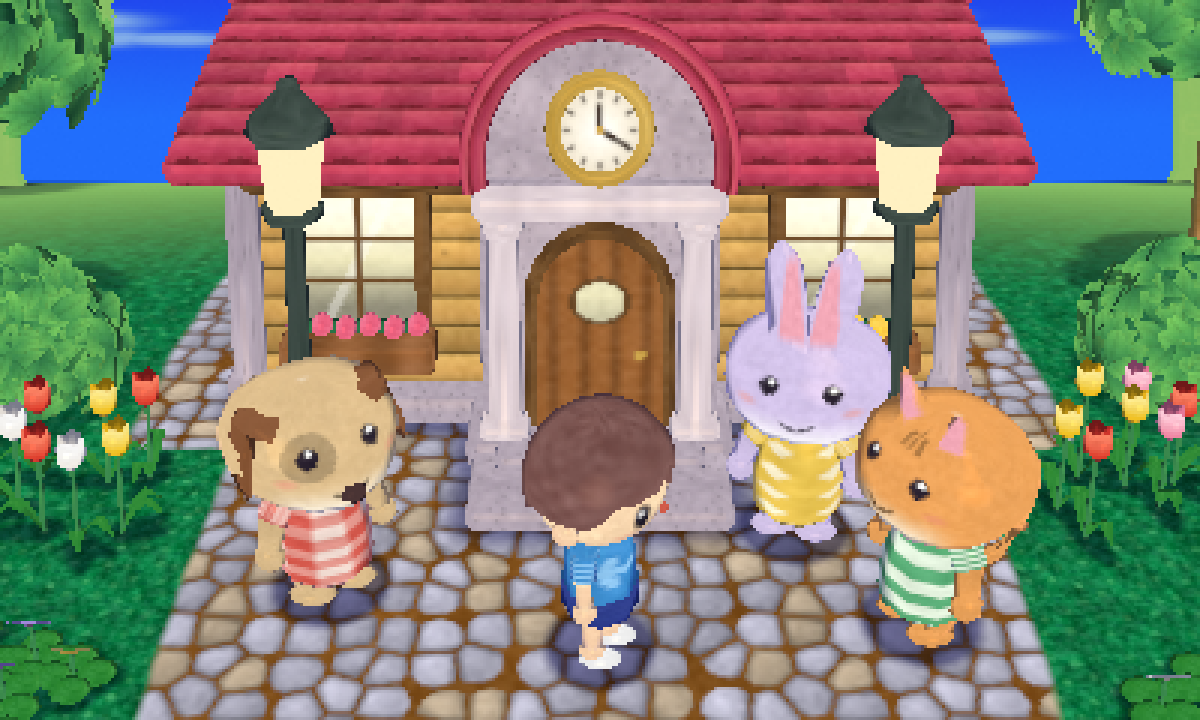
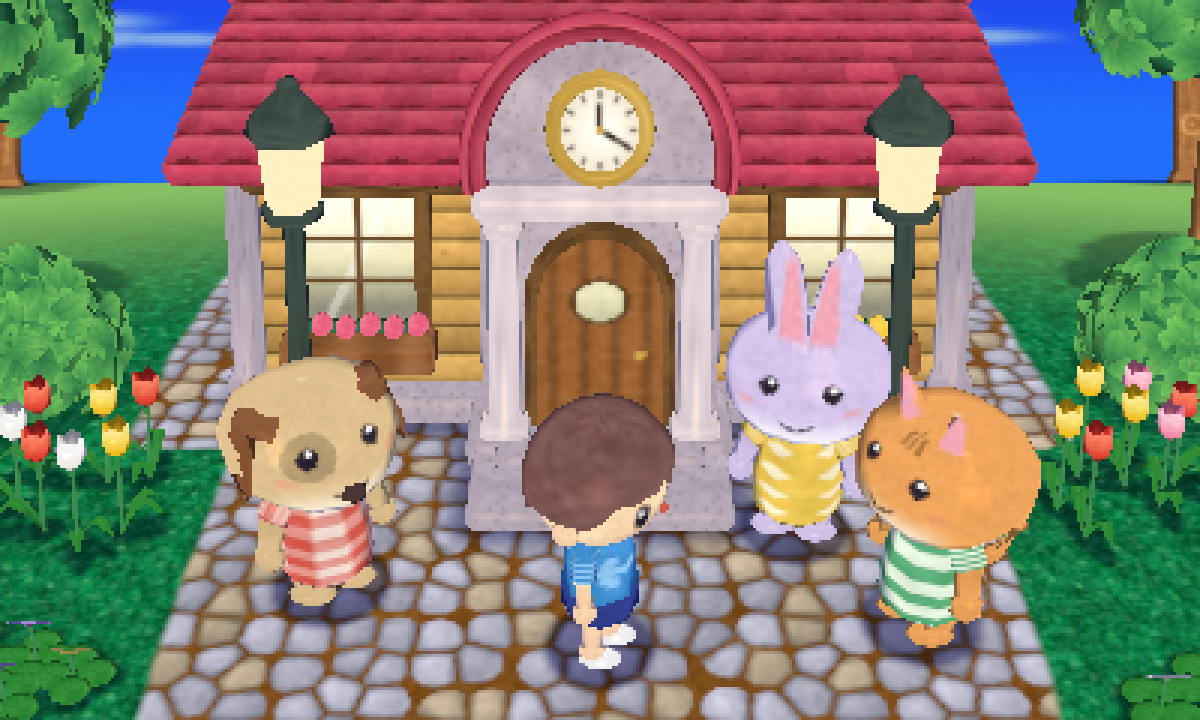
Haze review: ground and water layer only, anchored to ground places
Retail frames show objects at the hazed horizon keep their colour (trunk, cedar
and cherry crowns, weeds) while the ground brightens; the earlier weed reading
was a mask artefact and is retracted. The town hall scene drops object haze and
maps the walking camera's haze distances through the ground points they hit.
Blueprint: contradictions in sections 2, 12.1, 12.2, 13, 16.10, 16.14 and
16.16 corrected, new section 16.17 with the evidence table.

Claude-Session: https://claude.ai/code/session_017uV2ZEHp81Umsc7vn6nowa

diff --git a/style_test_town/town_hall_test.py b/style_test_town/town_hall_test.py
@@ -80,11 +80,31 @@ def solve_camera_lean():
     return h, d
 
 
+WALK_H, WALK_D = R.CAM_H, R.CAM_D                      # the walking camera the haze was set on (river scene)
+WALK_HAZE = (R.HAZE_NEAR, R.HAZE_FAR)
 R.CAM_H, R.CAM_D = solve_camera_lean()
-R._NEAR = math.hypot(R.CAM_D, R.CAM_H)
-R._FAR = R.tangent_distance(R.LOG_R, R.CAM_H, R.CAM_D)
-R.HAZE_NEAR = R._NEAR + 0.4 * (R._FAR - R._NEAR)
-R.HAZE_FAR = R._FAR
+
+
+def ground_point_at(view_dist, h, d):
+    """The bent ground point (centre column) at a given view distance from a camera at height h, d behind the player."""
+    for th in np.linspace(1e-5, math.pi / 2, 20000):
+        y, z = R.LOG_R * math.sin(th), R.LOG_R * math.cos(th) - R.LOG_R
+        if math.hypot(y + d, h - z) >= view_dist:
+            return y, z
+    return y, z
+
+
+def rebase_distance(view_dist):
+    """Haze belongs to places on the ground, not to a framing: map a view distance of the walking camera to the view
+    distance of the same ground point from this scene's camera."""
+    y, z = ground_point_at(view_dist, WALK_H, WALK_D)
+    return math.hypot(y + R.CAM_D, R.CAM_H - z)
+
+
+# Haze (16.17): a GROUND layer only (retail objects at the horizon keep their colour), anchored to the same ground
+# places as the river scene's user chosen setting (start 0.4 of the way from the feet to the walking view's ground
+# edge, mix up to 0.9).
+R.HAZE_NEAR, R.HAZE_FAR = rebase_distance(WALK_HAZE[0]), rebase_distance(WALK_HAZE[1])
 
 # --------------------------------------------------------------------------
 # Palette (M = measured, E = design choice)
@@ -982,44 +1002,11 @@ def build_flower_bed(col, M, x, y, kind, colours, rng, n=7, radius=0.32):
 
 
 # --------------------------------------------------------------------------
-# Haze on every object (user direction, 16.16): the same camera distance ramp as the ground. Retail evidence:
-# low weeds near the horizon brighten like the ground (S#13257: #44964D near, #9DCE6D far band); a tree at the edge
-# of a plaza shows none at its short distance (S#3152). The cobbles haze toward the measured far cobble #C6C3D6
-# instead of the grass lime.
+# Haze is a ground layer (16.17). Retail evidence: at the horizon of S#1246 the ground is hazed (#A0CF68, S 0.50, against
+# #026738, S 0.98 near) while a trunk (#985A33), a cedar crown (#093219) and a cherry crown (#F585CC, near #F492CD)
+# keep their colour; far weeds in S#13257 stay saturated. Plaza cobbles haze toward a lighter lavender grey (S#3152:
+# #ADB2C6 near, #C6C3D6 far), not toward the grass lime.
 # --------------------------------------------------------------------------
-def haze_node(nt, color_socket, haze_hex):
-    cd = nt.nodes.new("ShaderNodeCameraData")
-    hz = nt.nodes.new("ShaderNodeMapRange")
-    hz.interpolation_type = "SMOOTHSTEP"
-    link(nt, cd.outputs["View Distance"], hz.inputs["Value"])
-    hz.inputs["From Min"].default_value, hz.inputs["From Max"].default_value = R.HAZE_NEAR, R.HAZE_FAR
-    hz.inputs["To Min"].default_value, hz.inputs["To Max"].default_value = 0.0, R.HAZE_MAX
-    mx = nt.nodes.new("ShaderNodeMix")
-    mx.data_type = "RGBA"
-    link(nt, hz.outputs["Result"], mx.inputs[0])
-    link(nt, color_socket, mx.inputs[6])
-    mx.inputs[7].default_value = (*lin(R.gcol(haze_hex)), 1)
-    return mx.outputs[2]
-
-
-def apply_object_haze(M):
-    skip = {M[k].name for k in ("blob", "contact", "canopy", "cloud", "terrain", "water", "foam", "fish", "line")
-            if k in M}
-    n = 0
-    for m in bpy.data.materials:
-        if not m.node_tree or m.name in skip:
-            continue
-        nt = m.node_tree
-        for em in [x for x in nt.nodes if x.bl_idname == "ShaderNodeEmission"]:
-            if not em.inputs["Color"].is_linked:
-                continue
-            src = em.inputs["Color"].links[0].from_socket
-            nt.links.remove(em.inputs["Color"].links[0])
-            link(nt, haze_node(nt, src, R.PAL["haze"]), em.inputs["Color"])
-            n += 1
-    return n
-
-
 def plaza_haze_colour(M):
     """Terrain: the haze colour follows the plaza weight (grass lime #8EC668, cobble #C6C3D6)."""
     nt = M["terrain"].node_tree
@@ -1129,7 +1116,6 @@ def build(native=False):
     heads = {name: build_villager(world, M, name, species, pos, facing)
              for name, species, pos, facing, *_ in VILLAGERS}
     chars = {n for n in set(bpy.data.objects.keys()) - before if "Shadow" not in n}
-    hazed = apply_object_haze(M)
     for ob in bpy.context.scene.objects:                         # buildings and props lean back; characters upright
         if ob.type != "MESH" or ob.name in chars or ob.name == "Terrain":
             continue
@@ -1145,7 +1131,7 @@ def build(native=False):
     R.finalize_render(native, world, M, cam)
     tris_v = sum(sum(len(p.vertices) - 2 for p in bpy.data.objects[n].data.polygons) for n in chars
                  if n.startswith("Cat"))
-    return {"cam": cam, "heads": heads, "gable_top": gable_top * HALL_SCALE, "hazed": hazed, "tris_cat": tris_v}
+    return {"cam": cam, "heads": heads, "gable_top": gable_top * HALL_SCALE, "tris_cat": tris_v}
 
 
 def check(info):
@@ -1158,8 +1144,8 @@ def check(info):
         return 1 - v.y, v.x
 
     print(f"camera: height {R.CAM_H:.2f} P, distance {R.CAM_D:.2f} P, bend R {R.LOG_R:.2f} P, building lean {LEAN_DEG} deg, "
-          f"open ground horizon {R.horizon_row_for(R.LOG_R, R.CAM_H, R.CAM_D):.3f}; haze {R.HAZE_NEAR:.2f} to "
-          f"{R.HAZE_FAR:.2f} P on {info['hazed']} object materials")
+          f"open ground horizon {R.horizon_row_for(R.LOG_R, R.CAM_H, R.CAM_D):.3f}; ground haze {R.HAZE_NEAR:.2f} to "
+          f"{R.HAZE_FAR:.2f} P view distance (walking camera {WALK_HAZE[0]:.2f} to {WALK_HAZE[1]:.2f} P, same ground places)")
     for k, p in {"player feet": (0, 0, 0), "player hair top": (0, 0, 1.0)}.items():
         r, c = row_col(p)
         print(f"  {k:18s} row {r:.3f} column {c:.3f}")
@@ -1211,6 +1197,33 @@ def qa(png):
               f"{np.percentile(shaded, 10):.2f} over {shaded.size} shaded pixels (section 3: 0.41 to 0.50)")
 
 
+def haze_qa(png):
+    """Render again with the ground haze off and divide: where the haze acts, how strongly, and that nothing else moves."""
+    sc = bpy.context.scene
+    nt = bpy.data.materials[bpy.data.objects["Terrain"].data.materials[0].name].node_tree
+    hz = next(x for x in nt.nodes if x.bl_idname == "ShaderNodeMapRange"
+              and abs(x.inputs["From Min"].default_value - R.HAZE_NEAR) < 1e-4)
+    keep = hz.inputs["To Max"].default_value
+    hz.inputs["To Max"].default_value = 0.0
+    tmp = os.path.join(os.path.dirname(png), "_qa_nohaze.png")
+    old = sc.render.filepath
+    sc.render.filepath = tmp
+    bpy.ops.render.render(write_still=True)
+    sc.render.filepath = old
+    hz.inputs["To Max"].default_value = keep
+    a = np.array(bpy.data.images.load(png).pixels[:]).reshape(sc.render.resolution_y, sc.render.resolution_x, 4)[::-1, :, :3]
+    b = np.array(bpy.data.images.load(tmp).pixels[:]).reshape(a.shape[0], a.shape[1], 4)[::-1, :, :3]
+    os.remove(tmp)
+    L = lambda c: 0.2126 * c[..., 0] + 0.7152 * c[..., 1] + 0.0722 * c[..., 2]
+    r = L(a) / np.maximum(L(b), 1e-4)
+    moved = np.abs(a - b).max(-1) > 1.5 / 255
+    green = (b[..., 1] > b[..., 0] * 1.15) & (b[..., 1] > b[..., 2])
+    print(f"QA haze: {moved.mean():.2%} of pixels change (ground only); luminance ratio over changed pixels median "
+          f"{np.median(r[moved]) if moved.any() else 1:.2f}, p95 {np.percentile(r[moved], 95) if moved.any() else 1:.2f}; "
+          f"on grass {np.median(r[moved & green]) if (moved & green).any() else 1:.2f}, "
+          f"elsewhere on the ground {np.median(r[moved & ~green]) if (moved & ~green).any() else 1:.2f}")
+
+
 def main():
     argv = sys.argv[sys.argv.index("--") + 1:] if "--" in sys.argv else sys.argv[1:]
     p = argparse.ArgumentParser()
@@ -1232,6 +1245,7 @@ def main():
         bpy.ops.render.render(write_still=True)
         print(f"rendered {out} in {time.time() - t:.1f}s")
         qa(out)
+        haze_qa(out)
         if a.native and shutil.which("ffmpeg"):
             root, ext = os.path.splitext(out)
             subprocess.run(["ffmpeg", "-y", "-loglevel", "error", "-i", out, "-vf",

diff --git a/style_blueprint/BLUEPRINT.md b/style_blueprint/BLUEPRINT.md
@@ -102,7 +102,7 @@ from the top. Consequence (arithmetic): player height / frame WIDTH is 0.205 x 4
 | rim light, NL | YES in game: 1 to 2 px (1 to 2% of figure height), plus 15 to 35% luminance, tinted pink lilac. NL#941 1.15, 942 1.19, 945 1.19, 943 1.33; NL art 1.13 to 1.22 | vD conflict 1 (retail emote captures). NL model viewer renders lack it (1.03): do not use them as NL lighting reference. [Au] profile down from the top of the hair (`audit/nl_rim.py`): the second pixel row reads 1.32 (NL#941), 1.56 (942), 1.50 (944), 1.32 to 1.50 (945) of the hair 4 to 8 px inside, the third row 1.05 to 1.3; blue rises there (hair interior B 76 to 81, row 1 B 94 to 122) while the lime grass has B near 20, so this is a lit rim and not only grass bleed. Head top rims are therefore stronger than the ring average: gain range CORRECTED to plus 15 to 50% (ring average 15 to 35%, head top up to 50%). M to H |
 | rim light, CF | cannot confirm in game; CF artwork has the opposite (silhouette 0.74 to 0.82 darker, broad falloff, not a line) | A, vD. Use none |
 | specular | none on matte characters or terrain; small painted or soft highlight on glossy props (NL fruit soft blob, CF fruit hard white disc, by eye) | A, B, D. M |
-| distance haze, NL press builds | ground brightens and yellows over the far 40 to 50% of visible ground: NL#953 L 99 to 104 near to 182 at the horizon; far colour typical #94CC78 (max #AAE677 NL#956); independent of sky colour; water too (NL#957 near #3B6CAC, far #96B8F9). Horizon nearly dissolves (sky L 191 vs far grass 177 to 197) | A, vA (4 press images). Retail NL haze UNPROVEN (no open far ground in NL#938 to 940). M |
+| distance haze, NL press builds | ground brightens and yellows over the far 40 to 50% of visible ground: NL#953 L 99 to 104 near to 182 at the horizon; far colour typical #94CC78 (max #AAE677 NL#956); independent of sky colour; water too (NL#957 near #3B6CAC, far #96B8F9). Horizon nearly dissolves (sky L 191 vs far grass 177 to 197) | A, vA (4 press images). Retail NL haze UNPROVEN here (no open far ground in NL#938 to 940). SUPERSEDED: confirmed on 22 retail frames (16.3) as a ground and water layer only, objects keep their colour (16.17). M |
 | haze, CF | none: grass L constant within 4 to 6 levels from horizon to bottom (CF#873, 870, 882, 888); crisp dark sky against bright grass step (L 89 to 129) | A, vA. H |
 | night | CF night grass to about 0.6 of day luminance and hue 155 to 173 deg; characters multiplied about (0.35, 0.37, 0.82); NL night blue violet with warm point lights and glow (lamps, windows) | A (CF#883, NL#938, NL#961); character ratio not re measured. M |
 | exposure | scenes almost never clip: near white median at most 1%, near black at most 0.2% | C, vC. H |
@@ -158,7 +158,7 @@ Audit [Au] (`audit/nl_blob2.py`: horizontal profile at the sole row, normalised 
 | role | CF | NL | source |
 |---|---|---|---|
 | grass | #009758 (CF#882), #009158 (CF#888), #0A8564 (CF#873): hue 154 to 166, V 0.47 to 0.57, teal green | press builds #188050 / #147D4D (hue 145 to 154); RETAIL emote captures lime: median #92DB10 (hue 81 to 82, S 0.93, V 0.86), mottle from p25 #82CC09 to p75 #A1E917 (NL#941, 942, 944, 945, all grass pixels incl. the blob shadow) [Au]; v2 #82CD0C is the dark quartile, CORRECTED | A, vA, vC, vD, Au. Season or build behind the lime cannot be confirmed. CF [Au]: CF#882 #009658, 888 #009158, 873 #068464, 878 #009B59: CONFIRMED. NL press [Au] #127C4B to #1D8551 (NL#946, 953, 951): CONFIRMED. M |
-| far grass | same as near (no haze) | haze to #94CC78 (press) | A, vA |
+| far grass | same as near (no haze) | haze to #94CC78 (press); retail toward #88BF68, far over near 2.15 (16.3) | A, vA |
 | dirt / path | #BC904A to #CDA349 (A), #C69342 (C); hard edged blobs with leafy, star cut edges | #906826 path (C, NL#940); plaza ground golden brown cobble (NL#940 by eye) | A, C. M |
 | sand | #E7CB8B (CF#871, S 0.40) | #FED08A (NL#949), #CDA177 (NL#963) | vC; [Au] CF#871 #E7CB8B exact, NL#949 #FED38C: CONFIRMED (NL#963 #D7A87E with a lighter mask). H for frames |
 | material boundaries | HARD: dirt to grass in 1 px (CF#888) with a dark teal outline (0,41,62) 2 to 3 px wide around grass shapes (A's 4 to 5 px REVISED) | soft, blending over a few px (by eye) | A, vA |
@@ -380,7 +380,7 @@ character, or franchise shirt motifs (CF#485, 631, 779, 783, 791 and similar) [D
 | bend (start under the camera; start at the player) | cylinder, R about 34 to 44 P; about 13 P (L) | cylinder, R about 31 P; about 13 P (L) |
 | sky | cobalt #1A2AD0, thin lighter band at the horizon | E3 2010 cyan #45C5FF; E3 2011 and retail deep blue #2135E7 |
 | grass | teal green #009758 | press #188050; retail lime #92DB10 (mottle #82CC09 to #A1E917) |
-| haze | none | strong in press builds, toward #94CC78 |
+| haze | none | strong in press builds, toward #94CC78; retail ground and water only, toward #88BF68, far over near 2.15 (16.3, 16.17) |
 | shadow side / lit, in game | about 0.5 to 0.6 | about 0.5 to 0.55 |
 | rim | none confirmed | 1 to 2 px, plus 15 to 50% (head top strongest), pink lilac |
 | blob shadow | violet tint (B multiplied least), core 0.3 to 0.6, about 0.4 P at 50% | R = G, B lifted, core 0.48, 0.38 P at 50%, sharper edge |
@@ -451,6 +451,7 @@ NL = {
     "rim": {"width_frac_of_height": 0.015, "gain": 0.22, "tint": "#C8B4E6"},  # M width and gain (vD, A; Au head top up to 0.50); tint E
     # gain is a DISPLAYED (sRGB) brightening: in linear light 1.22 is about 1.5x (section 3 audit)
     "haze": {"start_frac_of_ground": 0.5, "max_mix": 0.8, "colour": "#94CC78"},  # M press builds only; E mix curve
+    # retail (16.3, 16.17): ground and water materials only, toward #88BF68, upper 100 ground rows, far / near 2.15
     # blob shadow decal (section 3)
     "blob": {"core_mul": 0.48, "core_mul_rgb": (0.48, 0.48, 0.62),  # M luminance core (vA, Au); rgb E: R = G
              # sRGB display ratios. Linear multiply that displays 0.48: about 0.19 (0.17 to 0.22). On lime grass B RISES
@@ -549,8 +550,11 @@ ENVELOPE = {"neon_max": 0.02, "near_black_max": 0.02, "near_white_max": 0.02}   
    values: about 0.19 for a displayed 0.48 core; on lime grass add a dark blue grey blend so blue rises), render
    method Blended for static ground decals; if it smears under motion, switch to Dithered and fade by colour, not
    alpha (CLAUDE.md). Objects: smaller soft patches at trunk bases (ratio about 0.7).
-8. Haze (NL early look only): Camera Data View Z Depth into Map Range (near half of visible ground 0, far edge 1)
-   then smoothstep, mix ground and water toward #94CC78 up to 0.8. CF and NL retail: off.
+8. Haze (NL, press and retail; CF off): Camera Data View Distance into Map Range (from about the middle of the visible
+   ground to its far edge), smoothstep, then mix GROUND and WATER materials only toward the far colour: grass #88BF68
+   (press #94CC78), cobbles and paths a lighter lavender grey (#C6C3D6, S#3152), sea #95B3F2. Never on objects:
+   retail trunks, crowns and weeds at the horizon keep their colour (16.17). Anchor the distances to ground places,
+   not to one framing, so a closer camera does not move the haze. Superseded the earlier "NL retail: off" (16.3).
 9. Sky: CF: flat #1A2AD0 world with a horizon band only in the last 13% above the ground edge; NL retail: #2135E7
    to #4078DA. Standard view transform; apply the repo's camera ray compression trick only if the horizon clips.
 10. Textures: paint with numpy (`work_C/paint_recipes.py` functions: to565, limit_palette, ramp, outline_colour,
@@ -567,7 +571,7 @@ ENVELOPE = {"neon_max": 0.02, "near_black_max": 0.02, "near_white_max": 0.02}   
 
 | question | why it matters | evidence that settles it |
 |---|---|---|
-| retail NL outdoor look: haze present? grass lime (#92DB10) or teal green? sky always deep blue? | three of the strongest NL cues rest on press builds | 5 to 10 native 400x240 retail captures of open outdoor ground in summer and other seasons |
+| retail NL outdoor look: haze present? grass lime (#92DB10) or teal green? sky always deep blue? (RESOLVED in 16.2, 16.3, 16.17: haze yes, ground and water only; retail grass teal green #0D7541 family) | three of the strongest NL cues rest on press builds | 5 to 10 native 400x240 retail captures of open outdoor ground in summer and other seasons |
 | bend radius and where the bend starts | sets how fast the ground drops; R spans 10 to 43 P across models | a retail capture with a straight road or fence receding over the horizon (track its screen curvature), or a frame pair with known walk distance |
 | outdoor camera lens (no square grid outdoors) | interior grids only; 10% tile non squareness changes pitch 4 deg | outdoor captures with known square tiles (pattern paths) |
 | CF rim term in game | NL has one; CF unconfirmed | a CF capture of a dark character against a dark background at native size |
@@ -1154,14 +1158,14 @@ cleaner. The test town (1.53 to 1.76) is still 0.6 to 0.8 below the NL target.
 Layer order, bottom to top (every material uses a subset, in this order): **B** base painted texture; **M** motif print or
 painted detail; **L** LUT light (section 2 and 12.2: smooth ramp on N.L from the camera side headlight, shadow end violet);
 **R** rim (NL characters only); **D** decal shadow multiply (separate Blended decal objects, linear values); **H** haze (NL
-only, mix by view depth); **G** time of day or weather grade (multiply on the lit result); **E** emission; **T**
+only, mix by view depth; ground and water materials only, never objects, 16.17); **G** time of day or weather grade (multiply on the lit result); **E** emission; **T**
 transparency; **P** post (glow, clamp, optional 565 snap). Values are displayed sRGB unless marked; NL retail first, CF
 after a slash.
 
 | material | ordered layers with values | sections |
 |---|---|---|
 | grass ground | B NL near #0D7541 (spring and summer; late winter #5B8D3B, December #7B673A, island #187939, Main Street #5A9E5A) / CF #0A8C54; M NL dots, stars, leaves or diamonds per season, darker print p10 #005A3D / CF one family per town (squares, triangles, circles) in 3 motif colours (#60AF17, #02AE58, #0AA77B); L; D player blob 0.41 to 0.50 (linear 0.14 to 0.22), blue lifted; H mix toward #88BF68 to #B5E36B over the 100 rows below the horizon, far over near luminance about 2.15, saturation to about 0.5; G night (0.34, 0.31, 0.70) / CF (0.64, 0.68, 0.83), dusk (0.83, 0.58, 0.67) / CF (0.87, 0.66, 0.65) | 16.3, 16.5, 3 |
-| path, dirt, plaza | B CF #C79748 with blobs #BD944A and specks #D68C31 / NL bank #946D31, plaza dirt #9D6223, cobble #AAA9B9; M CF hexagon pebbles, NL round cobbles; L; edge: CF dark brown lip on the dirt side #7E5018 (no teal outline), NL soft blend; D; H; G as grass, CF rain (0.57, 0.55, 0.85) | 16.3 |
+| path, dirt, plaza | B CF #C79748 with blobs #BD944A and specks #D68C31 / NL bank #946D31, plaza dirt #9D6223, cobble #AAA9B9; M CF hexagon pebbles, NL round cobbles; L; edge: CF dark brown lip on the dirt side #7E5018 (no teal outline), NL soft blend; D; H NL cobbles toward a lighter lavender grey (#ADB2C6 near, #C6C3D6 far, luminance x1.11, S#3152), not toward the grass lime; G as grass, CF rain (0.57, 0.55, 0.85) | 16.3 |
 | sand and wet sand | B NL #EFB67B to #F4BB8C (town #CA9A68 to #DDA374) / CF shore #E7CB8B, inland #CEA64A; M shell decals, CF orange hexagon pebbles; wet band = B x 0.62 to 0.71 luminance, redder; foam line #ECF2F8; L; D player (0.55, 0.55, 0.67), palm (0.58, 0.56, 0.68); H; G dusk wet sand toward #86779D | 16.3, 16.6 |
 | snow | B NL lilac #A1A6E0 (range #8E90BA to #E7D7DA, warm highlights #FFEFEB) / CF #BDD3E6; M NL stars or hex cobble, CF the town family swapped (rounded squares, stars, hexagons) #F0F6F4; L shade toward #A1BDC6 / violet; D canopy (0.60, 0.60, 0.67), CF blob (0.53, 0.53, 0.58); G night to #4E56B1 to #5989EE, 5:33 PM pink #C499BC | 16.3, 16.6 |
 | cliff | B NL salmon #FCC599 lit, #B79EB1 mauve slabs / CF wall #86645D; M horizontal strata, CF cream band #D9C399 and crevices #4E1F36; L; grass lip on top; G rain toward #A78DA6, CF winter swap #5E5E79 | 16.3 |
@@ -1199,6 +1203,7 @@ after a slash.
 | 4.1, 15 clouds | white puffs key art only | CF look ups 15 to 30% (#C1DCFF); NL cumulus #CCE1FE and puffs #949EF7 in retail, rare | 16.2 |
 | 4.1, 4.4 night | NL "blue violet", sky always lightens to the horizon | NL #01215A flat; violet family a minority; CF #000B39 and early night violet bands | 16.2 |
 | 2, 15, 12.1 haze | NL retail unproven or likely | H: far over near 2.15, upper 100 ground rows, toward #88BF68 to #B5E36B | 16.3 |
+| 12.2 step 8, 16.16 haze | retail off; then haze on every object | on in NL retail, ground and water only; objects at the horizon keep their colour; cobbles toward lavender grey | 16.17 |
 | 4.2, 15, 12.1 NL grass | #92DB10, then #568F4F to #5D9D49 | near #026637 to #107442 (spring, summer); seasonal set; lime emote only | 16.3 |
 | 4.2 CF motif | shapes vary per frame | one family per town (squares, triangles, circles), four seasonal palettes | 16.3 |
 | 4.2, 10, 12.1 CF ground outline | teal (0,41,62) 2 to 3 px | brown lip on the dirt side #7E5018 (teal was press) | 16.3 |
@@ -1323,7 +1328,8 @@ where a 240 row figure is quoted):
   with the 12.1 camera; the different feet row explains the gap).
 * Haze (ground and water only): far band 2 to 22 rows below the horizon over the 170 to 236 band, on a ground only
   render pass: 2.12 (retail median 2.15). Applying the same haze to trees and props washed them to flat lime, which no
-  capture shows, so haze stays a ground and water layer (16.10 H applies to those materials only).
+  capture shows, so haze stays a ground and water layer (16.10 H applies to those materials only). Confirmed by direct
+  measurement of objects at the horizon in 16.17.
 * River lines p95 over median 1.25 (16.4 rivers 1.28).
 * Grain: grass pixels only 2.79 against 2.87 (p25 2.31, p75 3.40) on 85 lossless retail frames with over 25% grass;
   whole frame 1.93 against 2.92 on the same frames. The whole frame gap comes from larger smooth water and sky areas
@@ -1387,13 +1393,10 @@ boxy hall, poor villagers, odd haze on the plaza).
   shaded), columns are 12 sided lathes with cushion bases and rolled capitals, the roof is two thick rounded slabs with a
   ridge roll, the clock gable is an arch topped slab with a torus trim (a bent tube with a fixed frame: polyline tubes
   twist on arcs).
-* Haze on the plaza and on objects. S#3152 (lossless plaza): cobbles brighten from #ADB2C6 near to #C6C3D6 far
-  (luminance x1.11) and stay lavender grey; a lime haze on cobbles is wrong. Objects: low weeds near the horizon in
-  S#13257 brighten like the ground (#44964D near, #9DCE6D in the far band, weed mask on a Q80 JPEG, L to M), while a
-  tree at the edge of the S#3152 plaza shows no measurable haze at its short distance (#086910 against #006931 near).
-  Implemented: every object material takes the ground's distance ramp toward #8EC668; the terrain's haze colour follows
-  the plaza weight (#8EC668 on grass, #C6C3D6 on cobbles). In this framing the ramp starts at 7.35 P from the camera, so
-  only the farthest trees are touched.
+* Haze: first applied to every object at the user's suggestion; withdrawn after measurement (16.17): retail objects at
+  the horizon are not hazed. The weed reading that seemed to support object haze (S#13257, #44964D near, #9DCE6D far)
+  was a mask artefact: the green mask also caught hazed ground; the far weeds themselves are saturated. Current: ground
+  only, anchored to ground places, cobbles toward #C6C3D6.
 * Texture density: the user found the hall and characters cleaner than the cobbles. All textures now share one painted
   treatment: about 64 to 80 texels per P (planks 64, cobbles 80, fur 64; faces about 110, inside the 80 to 150 texels per
   P that section 6's CF face reading implies), bilinear, fbm mottle 4 to 7% plus felt grain; the shared player textures
@@ -1405,3 +1408,37 @@ boxy hall, poor villagers, odd haze on the plaza).
   villagers). Neon 4.6% (more sky and the tulips), near black 0%, near white 1.9%. Player blob on cobbles, render with and without the blob
   divided per pixel: median 0.55 over 4,205 shaded pixels (the configured multiply; section 3 grass range 0.41 to
   0.50). Triangles: one villager 816, scene about 122,000.
+
+### 16.17 Haze review (after the town hall scene; measurements on retail frames, scripts in the session scratchpad)
+
+What retail NL hazes and what it does not:
+
+| element at the horizon | far | near (same frame) | hazed? |
+|---|---|---|---|
+| grass, S#1246 rows 36 to 48 beside a far trunk | #A0CF68, L 181, S 0.50 | #026738, L 67, S 0.98 (rows 200 to 235) | yes, x2.7 |
+| tree trunk standing on that horizon, S#1246 rows 8 to 34 | #985A33, L 104, S 0.66 | (a nearer cherry trunk #AF7929) | no |
+| cedar crown at the horizon, S#1246 | #093219, L 35, S 0.82 | | no (darker than any hazed ground) |
+| cherry crown at the horizon, S#1246 | #F585CC, L 175, S 0.46 | #F492CD, L 182, S 0.40 | no (same colour) |
+| weeds on the far ground, S#13257 | saturated green (by eye on a 4x crop) | | no |
+| cobbles, S#3152 (lossless) | #C6C3D6, L 198 | #ADB2C6, L 179 | yes, x1.11, toward lavender grey |
+
+Rules (H for the ground, M for objects on 2 frames and 5 objects):
+1. Haze is a ground and water material layer, not an atmosphere: objects standing in the hazed band keep their own
+   colour, which is why far crowns and trunks read crisply against a pale far ground in retail frames.
+2. The far colour depends on the surface: grass toward #88BF68 (16.3), cobbles toward a lighter lavender grey, sea
+   toward #95B3F2 (16.4). A single lime target on paved ground is wrong.
+3. Distances belong to ground places. A scene with a different framing (the town hall camera: 3.58 P high, 3.42 P
+   back) maps the walking camera's haze distances (7.72 to 10.99 P view distance) through the ground points they hit:
+   6.99 to 10.23 P from its own camera.
+
+Contradictions resolved in this review: section 2 (retail unproven), 12.1 (press values only), 12.2 step 8 (retail off),
+the 13 open question on retail haze, 16.10 (no rule for paved ground or objects), 16.14 against 16.16 (objects). All now
+point here.
+
+Strength in the test scenes: the river scene keeps the user's chosen setting (start at 0.4 of the way from the feet to
+the visible ground edge, mix up to 0.9 toward #8EC668): far band ratio 1.38 against the retail median 2.15 (16.15). The
+town hall scene uses the same ground places; measured by rendering with and without the ground haze and dividing per
+pixel: haze touches 5.45% of the frame (far grass beside the hall), grass median 1.57, p95 2.42 (the far band reaches
+the retail level), cobbles 1.04 (they lie close to the camera), objects unchanged (0 changed pixels outside the
+ground by construction).
+
